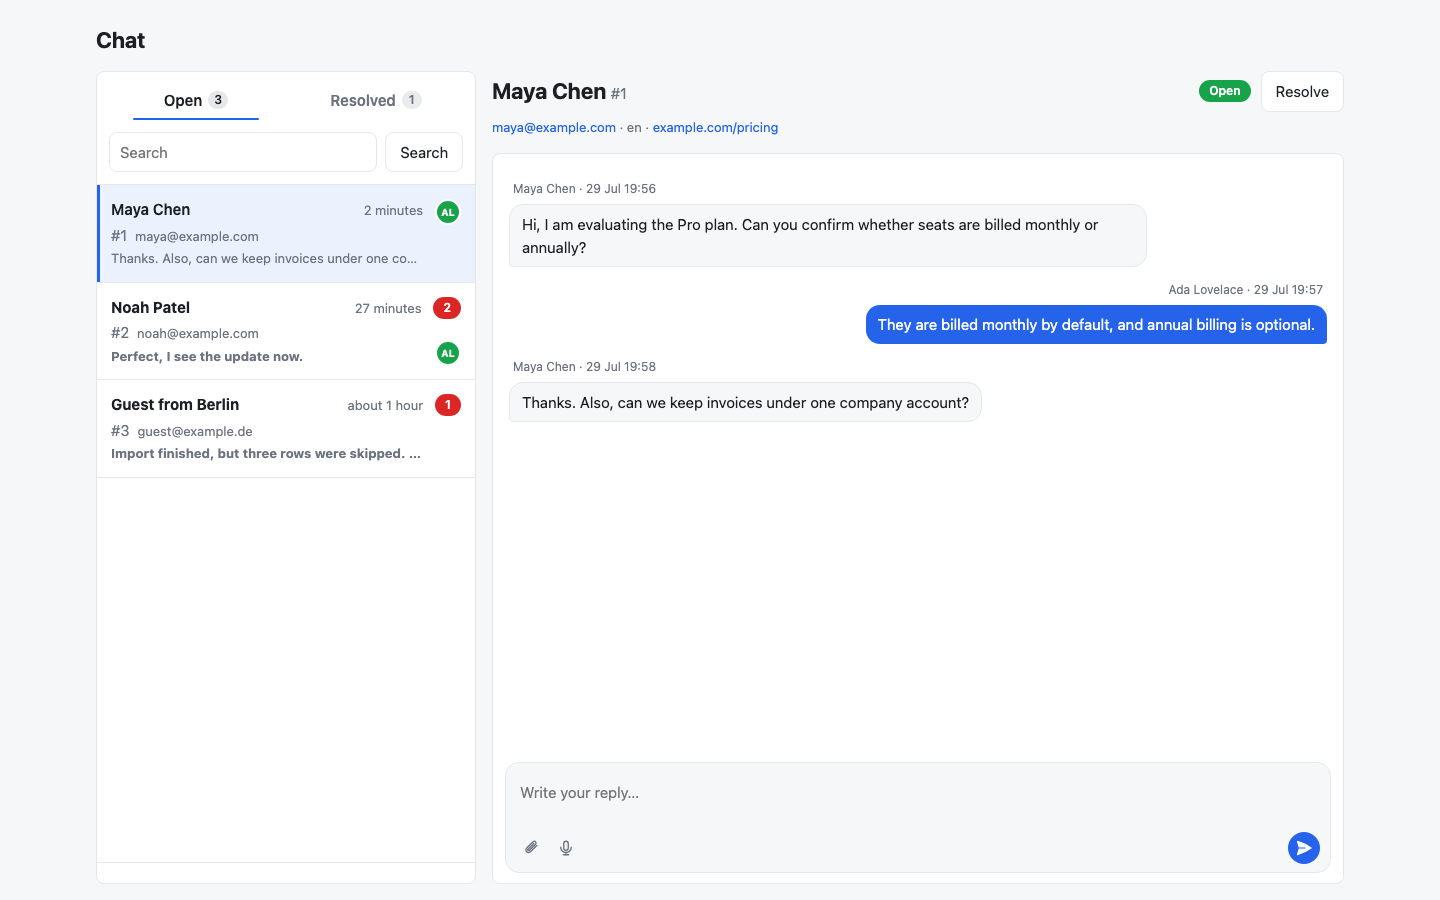
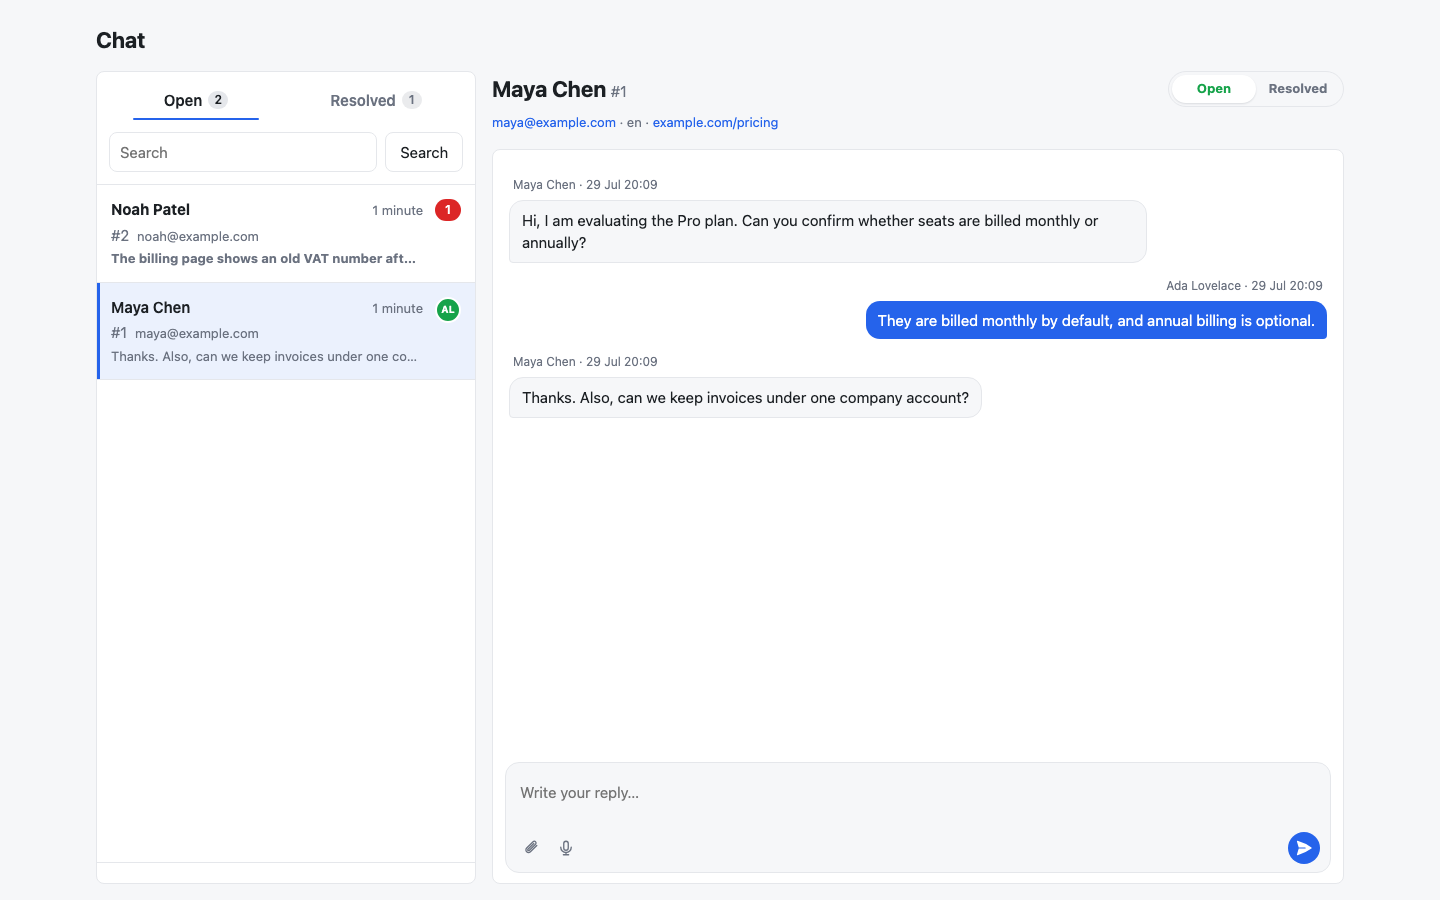
Add conversation status toggle

diff --git a/test/integration/inbox_test.rb b/test/integration/inbox_test.rb
@@ -73,6 +73,7 @@ class InboxTest < ActionDispatch::IntegrationTest
     assert_includes response.body, 'hello from the selected thread'
     assert_includes response.body, "message-#{message.id}"
     assert_includes response.body, 'Write your reply'
+    assert_includes response.body, 'status-toggle is-open'
     assert message.reload.read?
   end
 

diff --git a/lib/livechat/version.rb b/lib/livechat/version.rb
@@ -1,5 +1,5 @@
 # frozen_string_literal: true
 
 module Livechat
-  VERSION = '0.6.2'
+  VERSION = '0.6.3'
 end

diff --git a/CHANGELOG.md b/CHANGELOG.md
@@ -1,5 +1,11 @@
 # Changelog
 
+## 0.6.3
+
+- Replaced the selected thread's separate status badge and resolve/reopen
+  button with a compact Open/Resolved status toggle.
+- Refreshed the README inbox screenshots to show the new status toggle.
+
 ## 0.6.2
 
 - Reworked the inbox into a two-column desktop layout: conversation list on the
